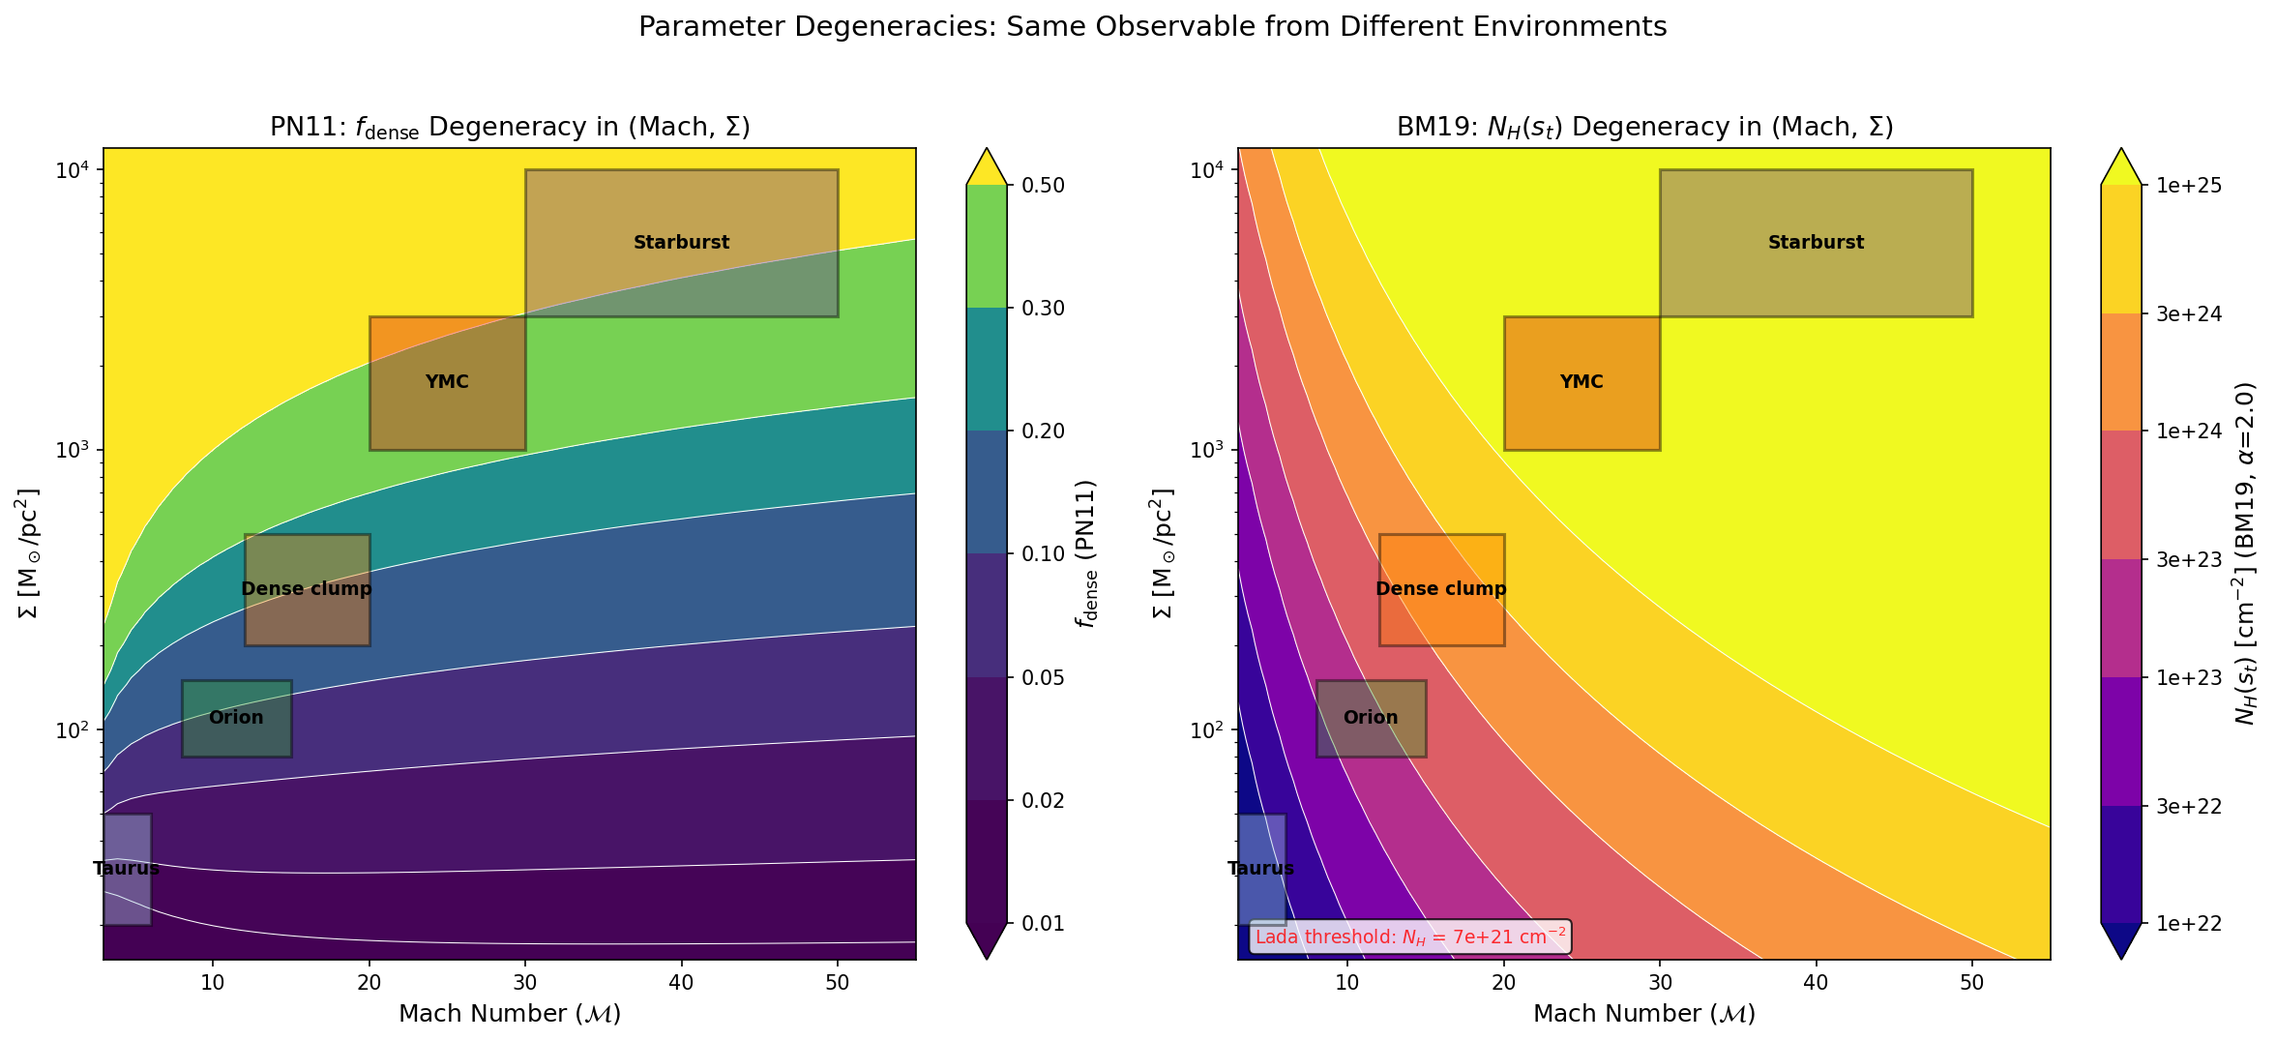
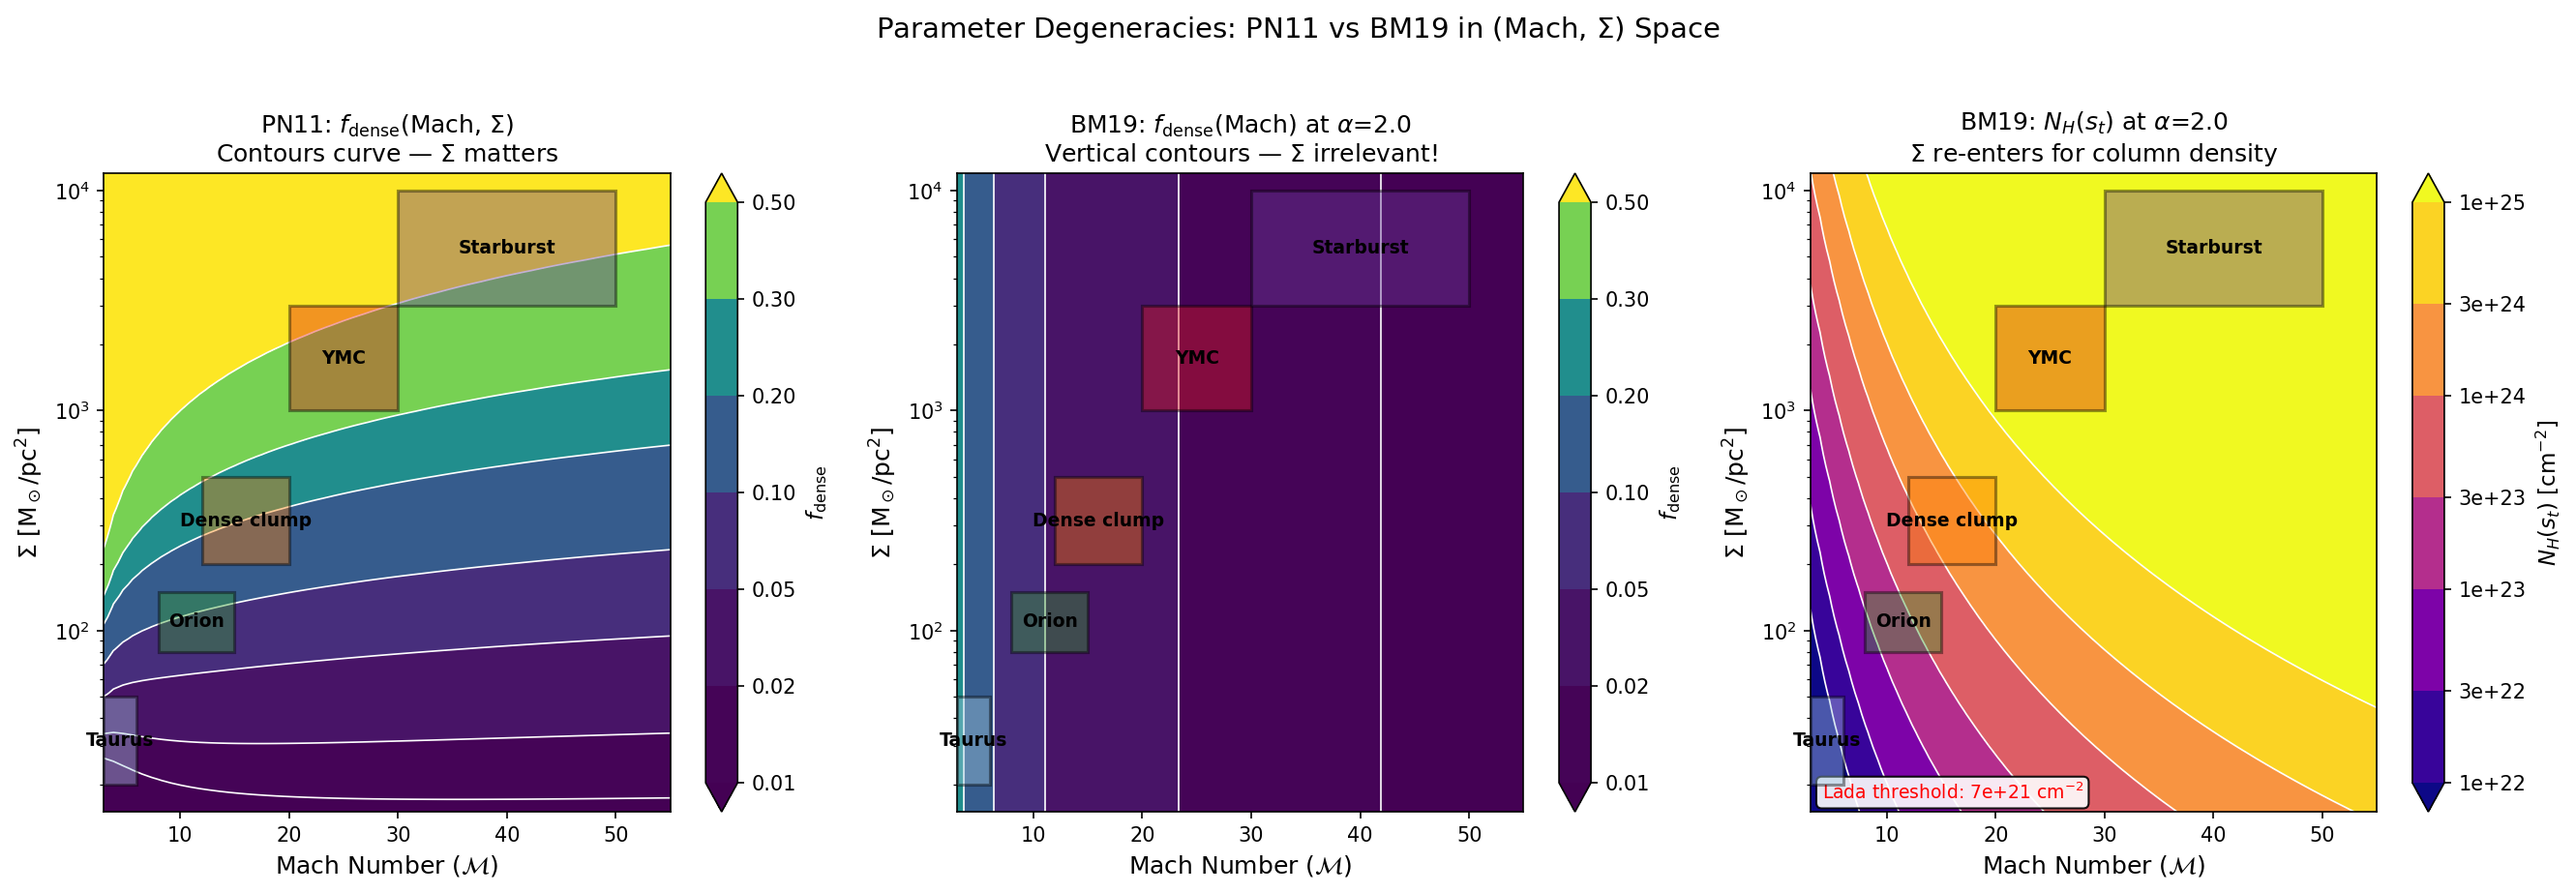
feat(validation): add BM19 f_dense panel to degeneracy contour plot
Three-panel visualization now shows:
- Panel 1: PN11 f_dense (curved contours - Σ-dependent via α_vir)
- Panel 2: BM19 f_dense (vertical contours - Σ-independent at fixed α!)
- Panel 3: BM19 N_H (curved contours - Σ re-enters for observable)

Key insight: BM19 breaks the Mach-Σ degeneracy that exists in PN11.

🤖 Generated with [Claude Code](https://claude.com/claude-code)

diff --git a/validation/bm19_fdf_suite/tier1_a4_pn11_vs_bm19.py b/validation/bm19_fdf_suite/tier1_a4_pn11_vs_bm19.py
@@ -322,15 +322,19 @@ ASTROPHYSICAL_ENVIRONMENTS = {
 def make_degeneracy_contour_plot(show: bool = False) -> str:
     """Show parameter degeneracies with real astrophysical environments.
 
-    Two panels showing iso-f_dense and iso-N_H contours in (Mach, Σ) space,
-    with real environments overlaid as ellipses.
+    Three panels showing iso-f_dense contours in (Mach, Σ) space:
+    1. PN11 f_dense - contours CURVE because f_dense depends on Σ via α_vir
+    2. BM19 f_dense - contours are VERTICAL because f_dense has NO Σ dependence
+    3. BM19 N_H threshold - shows column density (combines s_t and Σ)
 
-    This demonstrates that different physical conditions can produce
-    similar observables (degeneracy).
+    This demonstrates:
+    - PN11 has (Mach, Σ) degeneracy in f_dense
+    - BM19 removes this degeneracy (f_dense only depends on Mach at fixed α)
+    - But column density N_H still depends on Σ
     """
     setup_publication_style()
 
-    fig, axes = plt.subplots(1, 2, figsize=(16, 7))
+    fig, axes = plt.subplots(1, 3, figsize=(18, 6))
 
     # Parameter grids
     n_mach, n_sigma = 60, 60
@@ -339,9 +343,10 @@ def make_degeneracy_contour_plot(show: bool = False) -> str:
     Mach_grid, Sigma_grid = np.meshgrid(machs, sigmas)
 
     b = 0.4  # Natural mixture driving
+    alpha_bm19 = 2.0
 
-    # Compute f_dense (PN11) over grid
-    f_dense_grid = np.zeros_like(Mach_grid)
+    # Compute f_dense (PN11) over grid - depends on (Mach, Σ)
+    f_dense_pn11_grid = np.zeros_like(Mach_grid)
     for i in range(n_sigma):
         for j in range(n_mach):
             mach = Mach_grid[i, j]
@@ -349,10 +354,17 @@ def make_degeneracy_contour_plot(show: bool = False) -> str:
             alpha_vir = float(pn11.alpha_vir_from_sigma(sigma))
             sigma_sq = float(bm19.sigma_s_squared(mach, b))
             s_crit = float(pn11.s_crit_pn11(mach, alpha_vir))
-            f_dense_grid[i, j] = float(pn11.f_dense_pn11(sigma_sq, s_crit))
+            f_dense_pn11_grid[i, j] = float(pn11.f_dense_pn11(sigma_sq, s_crit))
 
-    # Compute N_H (BM19 at α=2.0) over grid
-    alpha_bm19 = 2.0
+    # Compute f_dense (BM19) over grid - depends on Mach only (at fixed α)!
+    f_dense_bm19_grid = np.zeros_like(Mach_grid)
+    for i in range(n_sigma):
+        for j in range(n_mach):
+            mach = Mach_grid[i, j]
+            result = bm19.bm19_pipeline(mach, b, alpha_bm19, eta_survive=0.6)
+            f_dense_bm19_grid[i, j] = float(result.f_dense)
+
+    # Compute N_H (BM19) over grid - depends on (Mach, Σ) via s_t and conversion
     N_H_grid = np.zeros_like(Mach_grid)
     for i in range(n_sigma):
         for j in range(n_mach):
@@ -362,98 +374,118 @@ def make_degeneracy_contour_plot(show: bool = False) -> str:
             s_t = float(result.s_t)
             N_H_grid[i, j] = s_to_column_density(s_t, sigma)
 
-    # f_dense contour levels
+    # f_dense contour levels (same for both panels)
     f_dense_levels = [0.01, 0.02, 0.05, 0.1, 0.2, 0.3, 0.5]
 
     # N_H contour levels (cm^-2)
     N_H_levels = [1e22, 3e22, 1e23, 3e23, 1e24, 3e24, 1e25]
 
     # =========================================================================
-    # Panel 1: f_dense (PN11) contours
+    # Panel 1: f_dense (PN11) - CURVED contours (Σ dependence)
     # =========================================================================
     ax1 = axes[0]
 
-    # Filled contours
     cf1 = ax1.contourf(
-        Mach_grid, Sigma_grid, f_dense_grid,
+        Mach_grid, Sigma_grid, f_dense_pn11_grid,
         levels=f_dense_levels,
         cmap="viridis",
         extend="both",
     )
     ax1.contour(
-        Mach_grid, Sigma_grid, f_dense_grid,
+        Mach_grid, Sigma_grid, f_dense_pn11_grid,
         levels=f_dense_levels,
         colors="white",
-        linewidths=0.5,
+        linewidths=0.8,
         linestyles="-",
     )
 
-    # Add colorbar
     cbar1 = plt.colorbar(cf1, ax=ax1)
-    cbar1.set_label("$f_\\mathrm{dense}$ (PN11)", fontsize=12)
+    cbar1.set_label("$f_\\mathrm{dense}$", fontsize=11)
 
-    # Overlay environment ellipses
     _add_environment_ellipses(ax1)
 
     ax1.set_yscale("log")
     ax1.set_xlabel("Mach Number ($\\mathcal{M}$)", fontsize=12)
     ax1.set_ylabel("$\\Sigma$ [M$_\\odot$/pc$^2$]", fontsize=12)
-    ax1.set_title("PN11: $f_\\mathrm{dense}$ Degeneracy in (Mach, $\\Sigma$)", fontsize=13)
+    ax1.set_title("PN11: $f_\\mathrm{dense}$(Mach, $\\Sigma$)\nContours curve — $\\Sigma$ matters", fontsize=12)
     ax1.set_xlim(3, 55)
     ax1.set_ylim(15, 12000)
 
     # =========================================================================
-    # Panel 2: N_H threshold (BM19) contours
+    # Panel 2: f_dense (BM19) - VERTICAL contours (no Σ dependence!)
     # =========================================================================
     ax2 = axes[1]
 
-    # Filled contours
     cf2 = ax2.contourf(
+        Mach_grid, Sigma_grid, f_dense_bm19_grid,
+        levels=f_dense_levels,
+        cmap="viridis",
+        extend="both",
+    )
+    ax2.contour(
+        Mach_grid, Sigma_grid, f_dense_bm19_grid,
+        levels=f_dense_levels,
+        colors="white",
+        linewidths=0.8,
+        linestyles="-",
+    )
+
+    cbar2 = plt.colorbar(cf2, ax=ax2)
+    cbar2.set_label("$f_\\mathrm{dense}$", fontsize=11)
+
+    _add_environment_ellipses(ax2)
+
+    ax2.set_yscale("log")
+    ax2.set_xlabel("Mach Number ($\\mathcal{M}$)", fontsize=12)
+    ax2.set_ylabel("$\\Sigma$ [M$_\\odot$/pc$^2$]", fontsize=12)
+    ax2.set_title("BM19: $f_\\mathrm{dense}$(Mach) at $\\alpha$=2.0\nVertical contours — $\\Sigma$ irrelevant!", fontsize=12)
+    ax2.set_xlim(3, 55)
+    ax2.set_ylim(15, 12000)
+
+    # =========================================================================
+    # Panel 3: N_H threshold (BM19) - curved contours (Σ affects conversion)
+    # =========================================================================
+    ax3 = axes[2]
+
+    cf3 = ax3.contourf(
         Mach_grid, Sigma_grid, N_H_grid,
         levels=N_H_levels,
         cmap="plasma",
         extend="both",
         norm=plt.matplotlib.colors.LogNorm(vmin=1e22, vmax=1e25),
     )
-    ax2.contour(
+    ax3.contour(
         Mach_grid, Sigma_grid, N_H_grid,
         levels=N_H_levels,
         colors="white",
-        linewidths=0.5,
+        linewidths=0.8,
         linestyles="-",
     )
 
-    # Add colorbar
-    cbar2 = plt.colorbar(cf2, ax=ax2, format="%.0e")
-    cbar2.set_label("$N_H(s_t)$ [cm$^{-2}$] (BM19, $\\alpha$=2.0)", fontsize=12)
+    cbar3 = plt.colorbar(cf3, ax=ax3, format="%.0e")
+    cbar3.set_label("$N_H(s_t)$ [cm$^{-2}$]", fontsize=11)
 
-    # Lada threshold line
+    # Lada threshold annotation
     lada_NH = OBSERVATIONAL_ANCHORS["lada_threshold_cm2"]
-    ax2.axhline(
-        y=100,  # Just a placeholder - we need to find Sigma where N_H = Lada
-        color="red", linestyle="--", linewidth=2, alpha=0.0,  # Hide this
-    )
-    # Add annotation for Lada threshold
-    ax2.annotate(
-        f"Lada threshold: $N_H$ = {lada_NH:.0e} cm$^{{-2}}$",
+    ax3.annotate(
+        f"Lada threshold: {lada_NH:.0e} cm$^{{-2}}$",
         xy=(0.02, 0.02), xycoords="axes fraction",
-        fontsize=9, color="red", alpha=0.8,
-        bbox=dict(boxstyle="round", facecolor="white", alpha=0.8),
+        fontsize=9, color="red",
+        bbox=dict(boxstyle="round", facecolor="white", alpha=0.9),
     )
 
-    # Overlay environment ellipses
-    _add_environment_ellipses(ax2)
+    _add_environment_ellipses(ax3)
 
-    ax2.set_yscale("log")
-    ax2.set_xlabel("Mach Number ($\\mathcal{M}$)", fontsize=12)
-    ax2.set_ylabel("$\\Sigma$ [M$_\\odot$/pc$^2$]", fontsize=12)
-    ax2.set_title("BM19: $N_H(s_t)$ Degeneracy in (Mach, $\\Sigma$)", fontsize=13)
-    ax2.set_xlim(3, 55)
-    ax2.set_ylim(15, 12000)
+    ax3.set_yscale("log")
+    ax3.set_xlabel("Mach Number ($\\mathcal{M}$)", fontsize=12)
+    ax3.set_ylabel("$\\Sigma$ [M$_\\odot$/pc$^2$]", fontsize=12)
+    ax3.set_title("BM19: $N_H(s_t)$ at $\\alpha$=2.0\n$\\Sigma$ re-enters for column density", fontsize=12)
+    ax3.set_xlim(3, 55)
+    ax3.set_ylim(15, 12000)
 
     # Overall title
     plt.suptitle(
-        "Parameter Degeneracies: Same Observable from Different Environments",
+        "Parameter Degeneracies: PN11 vs BM19 in (Mach, $\\Sigma$) Space",
         fontsize=14, y=1.02,
     )
     plt.tight_layout()
